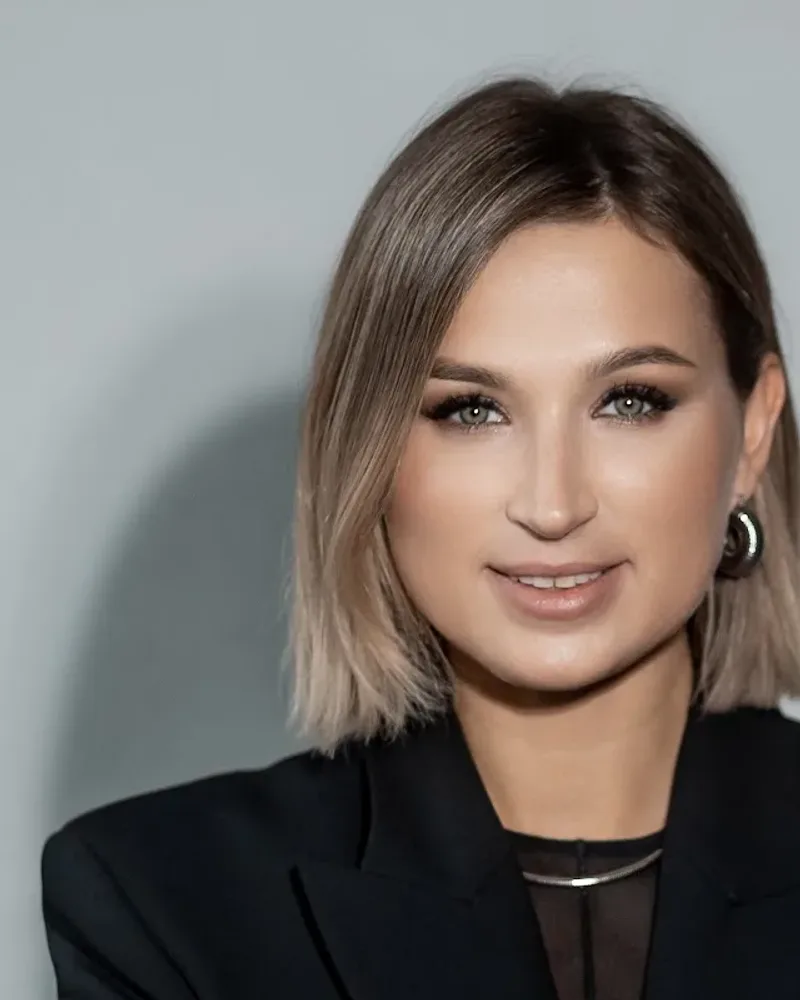
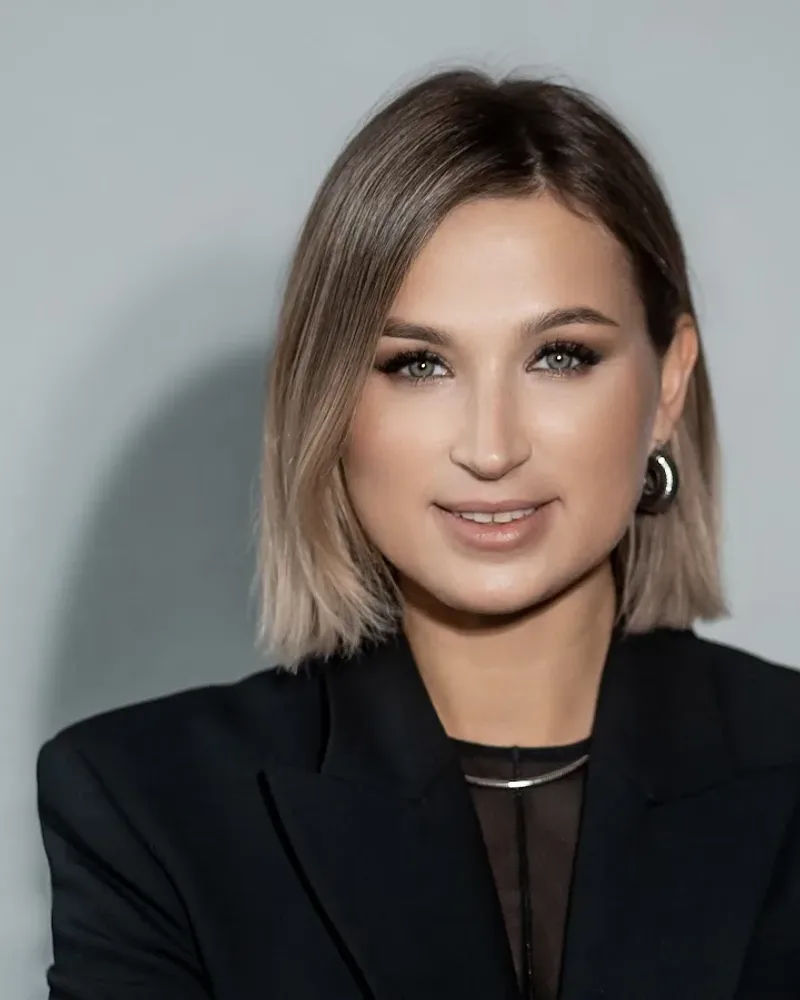
v33: спикеры 4:5 без обрезки (переснятые кадры), ракета Мой бизнес в баннере СВО, убраны линии между секциями

diff --git a/src33/components/SvoSupport33.jsx b/src33/components/SvoSupport33.jsx
@@ -3,10 +3,31 @@ import { ArrowIcon } from './shared33.jsx'
 
 const EASE = [0.19, 1, 0.22, 1]
 
+/* Ракета из логотипа «Мой бизнес» (пути из moibiz93.ru/…/moi-biz-logo.svg):
+   корпус-капля с вырезом, иллюминатор, пламя-ромб снизу, искра сверху.
+   Используется водяным знаком на градиенте — как в их собственных баннерах. */
+function RocketGlyph({ className }) {
+  return (
+    <svg viewBox="125 0 43 76" className={className} fill="currentColor" aria-hidden="true">
+      <path
+        opacity="0.55"
+        d="M150.164 63.7629L144.213 57.9088L138.262 63.7629L144.213 75.9999L150.164 63.7629Z"
+      />
+      <path d="M144.213 24.245C143.393 24.2391 142.59 24.4731 141.905 24.9175C141.22 25.3619 140.685 25.9966 140.367 26.741C140.05 27.4855 139.964 28.3061 140.12 29.0987C140.277 29.8913 140.669 30.6202 141.248 31.1928C141.826 31.7655 142.564 32.1561 143.368 32.3152C144.172 32.4742 145.005 32.3944 145.763 32.0859C146.521 31.7775 147.169 31.2543 147.624 30.5827C148.079 29.9112 148.322 29.1215 148.321 28.314C148.321 27.2333 147.885 26.1968 147.109 25.4326C146.333 24.6683 145.28 24.239 144.182 24.239" />
+      <path d="M144.214 5.96771C142.956 6.60481 126.513 15.1695 126.513 28.8611C126.513 40.5692 136.205 58.3118 136.205 58.3118L144.238 50.3841L152.246 58.2998C152.246 58.2998 161.939 40.5392 161.939 28.8491C161.939 15.1575 145.459 6.61082 144.238 5.95569L144.214 5.96771ZM149.542 45.077L144.238 39.842L138.909 45.077C138.641 44.3498 135.082 34.8594 135.082 28.6988C135.082 20.3625 143.573 15.6924 144.238 15.3499C144.848 15.6924 153.394 20.3625 153.394 28.6988C153.394 34.8775 149.841 44.3257 149.567 45.077" />
+      <path
+        opacity="0.55"
+        d="M161.94 0.00011496L155.881 5.96704L161.94 11.934L168 5.96705L161.94 0.00011496Z"
+      />
+    </svg>
+  )
+}
+
 /* Баннер «Меры поддержки бизнеса участников СВО» (просьба заказчика 24.07):
    яркая красная плита 7417C перед подвалом, ведёт на moibiz93.ru/svo-support.
    Красный на сайте зарезервирован под акценты — поэтому баннер единственный
-   крупный красный блок и читается мгновенно. */
+   крупный красный блок и читается мгновенно. С 2026-07-24 вместо звезды —
+   ракета логотипа «Мой бизнес» водяным знаком на градиенте (правка заказчика). */
 export default function SvoSupport33() {
   return (
     <section id="svo-support" className="relative px-6 lg:px-10 pb-24 md:pb-32">
@@ -21,18 +42,17 @@ export default function SvoSupport33() {
           href="https://moibiz93.ru/svo-support/"
           target="_blank"
           rel="noopener noreferrer"
-          className="group block bg-[#e04e39] rounded-[28px] px-8 py-9 md:px-12 md:py-11 shadow-[0_24px_60px_rgba(224,78,57,0.35)] hover:shadow-[0_28px_70px_rgba(224,78,57,0.5)] hover:-translate-y-0.5 transition-all duration-300"
+          className="group relative block overflow-hidden bg-[linear-gradient(130deg,#ef6a52_0%,#e04e39_48%,#c23a27_100%)] rounded-[28px] px-8 py-9 md:px-12 md:py-11 shadow-[0_24px_60px_rgba(224,78,57,0.35)] hover:shadow-[0_28px_70px_rgba(224,78,57,0.5)] hover:-translate-y-0.5 transition-all duration-300"
         >
-          <div className="flex flex-col md:flex-row md:items-center gap-6 md:gap-10">
-            {/* Звезда — знак программы */}
-            <svg
-              viewBox="0 0 64 64"
-              className="w-12 h-12 md:w-16 md:h-16 flex-shrink-0 text-white/90"
-              fill="currentColor"
-              aria-hidden="true"
-            >
-              <path d="M32 6l7.6 17.2L58 25.4 44 38l4.2 18.6L32 46.8 15.8 56.6 20 38 6 25.4l18.4-2.2z" />
-            </svg>
+          {/* Водяной знак-ракета: крупно справа, уходит за край плиты */}
+          <RocketGlyph className="absolute -right-8 md:-right-3 top-1/2 -translate-y-1/2 h-[190%] w-auto text-white/[0.14] group-hover:text-white/[0.2] transition-colors duration-500 pointer-events-none select-none" />
+          {/* Мягкий блик сверху — глубина плиты */}
+          <div
+            className="absolute inset-0 pointer-events-none"
+            style={{ background: 'radial-gradient(ellipse at 18% -20%, rgba(255,255,255,0.18) 0%, transparent 55%)' }}
+            aria-hidden="true"
+          />
+          <div className="relative flex flex-col md:flex-row md:items-center gap-6 md:gap-10">
             <div className="flex-1">
               <div className="text-white/80 text-[11px] md:text-xs font-bold uppercase tracking-[0.2em] mb-2">
                 Центр «Мой бизнес» · Краснодарский край

diff --git a/src33/components/Speakers5.jsx b/src33/components/Speakers5.jsx
@@ -6,8 +6,9 @@ const EASE = [0.19, 1, 0.22, 1]
 /* Спикеры сеткой (конструкция «Мой Бизнес Forum»: spk-grid).
    С 2026-07-22 — реальные ФИО из программы (content.js), не заглушки.
    С 2026-07-24 — реальные фото: webp 4:5 в /speakers, кадры выровнены по
-   уровню глаз (~30%), objectPosition 22% держит лицо в любой пропорции
-   карточки; текст читается через зелёный градиент снизу. */
+   уровню глаз (~30%). Карточки ТОЖЕ 4:5 — портрет показывается целиком,
+   без обрезки в горизонтальную плитку (обрезка давала «лбы и макушки»);
+   текст читается через зелёный градиент снизу. */
 export default function Speakers5() {
   return (
     <section id="speakers" className="relative py-24 md:py-32">
@@ -25,31 +26,30 @@ export default function Speakers5() {
           <span className="relative">Спикеры</span>
         </motion.h2>
 
-        {/* На телефоне 1 колонка: в 2 узких (155px) текст закрывал всю
-            карточку и не оставалось места под будущие фото спикеров */}
-        <div className="grid grid-cols-1 sm:grid-cols-2 md:grid-cols-3 gap-4 md:gap-5">
-          {SPEAKERS.map(({ name, topic, photo, pos, tbd }, i) => (
+        {/* 8 спикеров: 2 колонки на телефоне, 4 на десктопе — ровно 2 ряда.
+            Пропорция карточки = пропорции фото (4:5): снимок целиком */}
+        <div className="grid grid-cols-2 md:grid-cols-3 lg:grid-cols-4 gap-3 md:gap-5">
+          {SPEAKERS.map(({ name, topic, photo, tbd }, i) => (
             <motion.div
               key={name}
               className="speaker-card3"
               initial={{ opacity: 0, y: 24 }}
               whileInView={{ opacity: 1, y: 0 }}
               viewport={{ once: true, margin: '-50px' }}
-              transition={{ duration: 0.6, ease: EASE, delay: (i % 3) * 0.07 }}
+              transition={{ duration: 0.6, ease: EASE, delay: (i % 4) * 0.07 }}
             >
-              <div className="aspect-[16/9] sm:aspect-[4/3] md:aspect-[3/2] relative flex items-end p-5 md:p-6 overflow-hidden rounded-[inherit]">
+              <div className="aspect-[4/5] relative flex items-end p-3.5 md:p-5 overflow-hidden rounded-[inherit]">
                 {photo ? (
                   <>
                     <img
-                      src={`../speakers/${photo}.webp`}
+                      src={`../speakers/${photo}.webp?v=2`}
                       alt={name}
                       loading="lazy"
                       className="absolute inset-0 w-full h-full object-cover"
-                      style={{ objectPosition: pos ?? '50% 12%' }}
                     />
                     {/* Градиент бренда: текст читается, лицо остаётся чистым */}
                     <div
-                      className="absolute inset-0 bg-gradient-to-t from-[#0d2f22]/95 via-[#0d2f22]/30 to-transparent"
+                      className="absolute inset-0 bg-gradient-to-t from-[#0d2f22]/95 via-[#0d2f22]/25 via-35% to-transparent"
                       aria-hidden="true"
                     />
                   </>
@@ -59,15 +59,15 @@ export default function Speakers5() {
                     <path d="M18 100 Q 18 62 50 62 Q 82 62 82 100 Z" fill="#fff" />
                   </svg>
                 )}
-                <span className="absolute top-4 right-5 text-white/35 font-black text-4xl [text-shadow:0_1px_10px_rgba(13,47,34,0.55)]">
+                <span className="absolute top-2.5 right-3.5 md:top-4 md:right-5 text-white/35 font-black text-2xl md:text-4xl [text-shadow:0_1px_10px_rgba(13,47,34,0.55)]">
                   {String(i + 1).padStart(2, '0')}
                 </span>
                 <div className="relative">
-                  <div className="text-[#d9bfa8] text-[11px] md:text-xs font-semibold tracking-wide uppercase [text-shadow:0_1px_6px_rgba(13,47,34,0.8)]">
+                  <div className="text-[#d9bfa8] text-[10px] md:text-xs font-semibold tracking-wide uppercase [text-shadow:0_1px_6px_rgba(13,47,34,0.8)]">
                     {topic}
                   </div>
                   <div
-                    className={`font-bold text-base md:text-lg mt-1 [text-shadow:0_1px_8px_rgba(13,47,34,0.9)] ${
+                    className={`font-bold text-sm md:text-lg mt-1 leading-snug [text-shadow:0_1px_8px_rgba(13,47,34,0.9)] ${
                       tbd ? 'text-white/60' : 'text-white'
                     }`}
                   >

diff --git a/src33/components/Program5.jsx b/src33/components/Program5.jsx
@@ -67,7 +67,7 @@ function LectureModal({ lecture, onClose }) {
           {/* Фото спикера (2026-07-24); силуэт — если фото ещё нет */}
           {SPEAKER_PHOTOS[lecture.speaker] ? (
             <img
-              src={`../speakers/${SPEAKER_PHOTOS[lecture.speaker]}.webp`}
+              src={`../speakers/${SPEAKER_PHOTOS[lecture.speaker]}.webp?v=2`}
               alt={lecture.speaker}
               loading="lazy"
               className="w-28 h-28 sm:w-32 sm:h-32 rounded-2xl object-cover flex-shrink-0 border border-[#27251f]/10"

diff --git a/src33/v33.css b/src33/v33.css
@@ -485,10 +485,8 @@ button:focus-visible {
 }
 
 
-/* Конструкция crpp: линия-разделитель между секциями */
-main > section + section {
-  border-top: 1px solid rgba(217, 191, 168, 0.13);
-}
+/* Линии-разделители между секциями (конструкция crpp) убраны 2026-07-24:
+   заказчику светлая полоса между блоками мешала. Ритм держат отступы. */
 
 
 /* ===== v25: гравировка лучом ===== */
